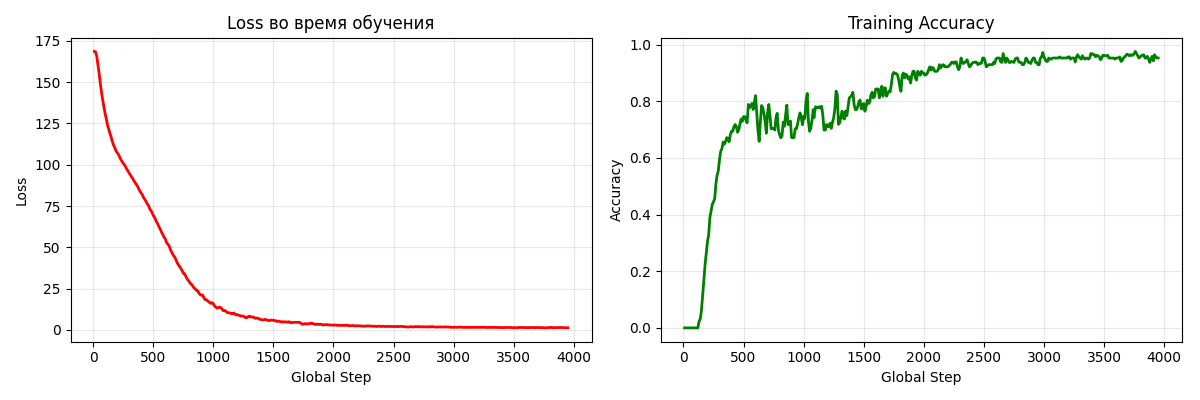
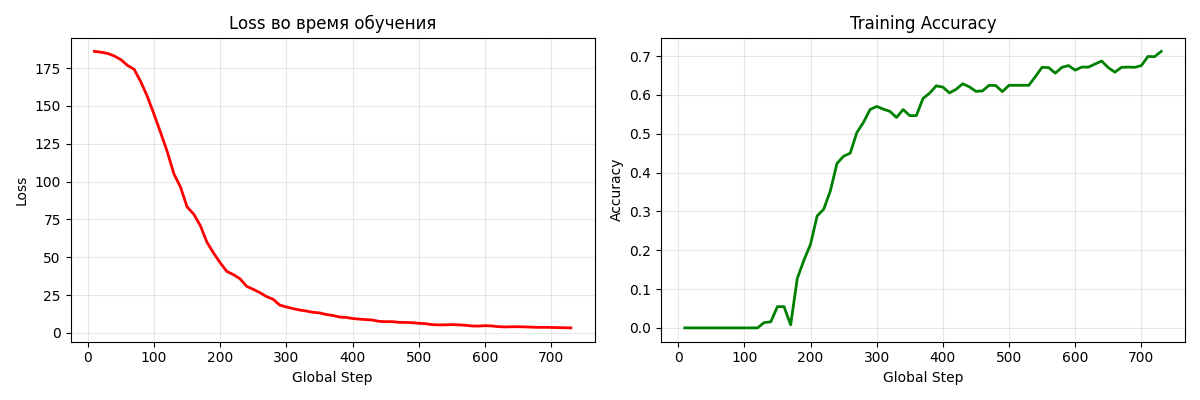
35

diff --git a/genDataTrainVal.py b/genDataTrainVal.py
@@ -2,7 +2,7 @@ import cv2
 import numpy as np
 import random
 import os
-from PIL import Image, ImageDraw, ImageFont, ImageFilter, ImageEnhance, ImageOps
+from PIL import Image, ImageDraw, ImageFont, ImageFilter, ImageEnhance
 import argparse
 
 
